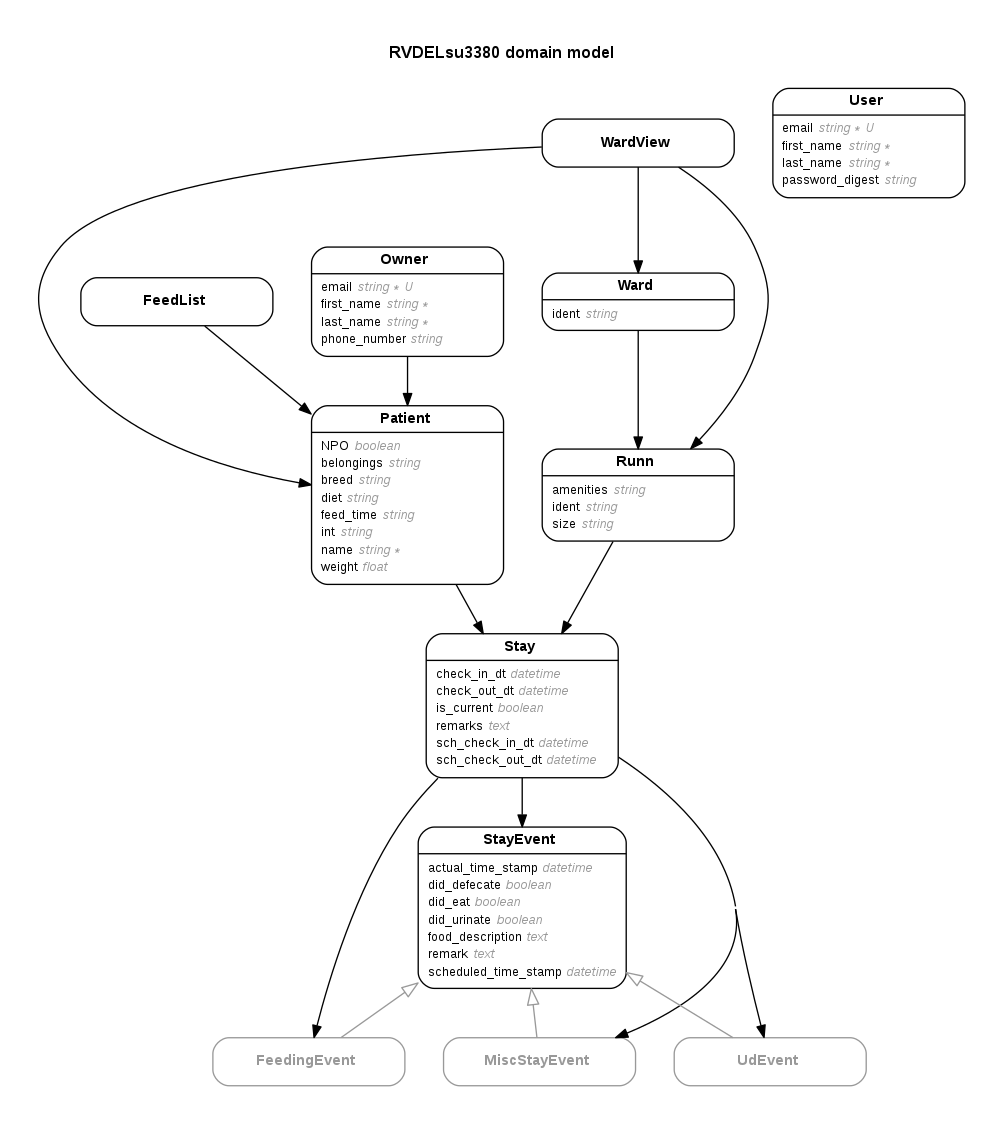
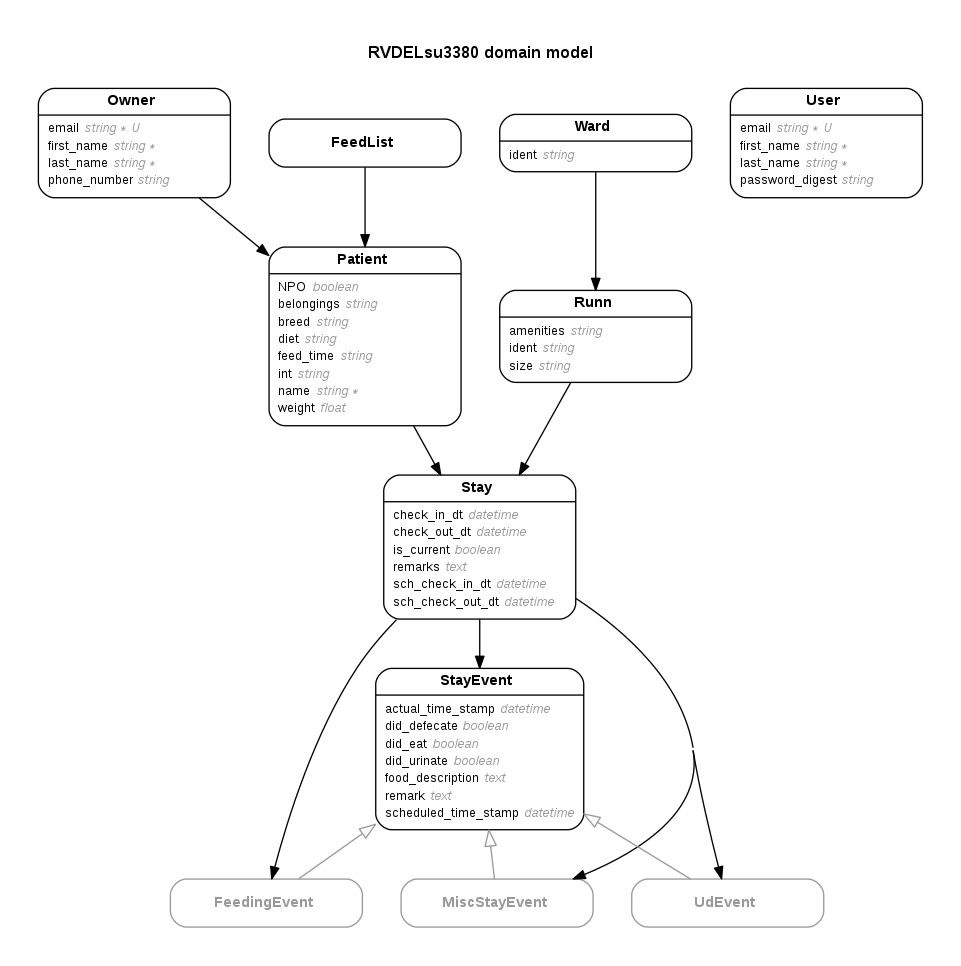
Rm ward_view model and scaffold twd #47 #33

diff --git a/config/routes.rb b/config/routes.rb
@@ -1,6 +1,5 @@
 Rails.application.routes.draw do
 
-  resources :ward_views
   resources :owners do
     member do
       resources :patients
